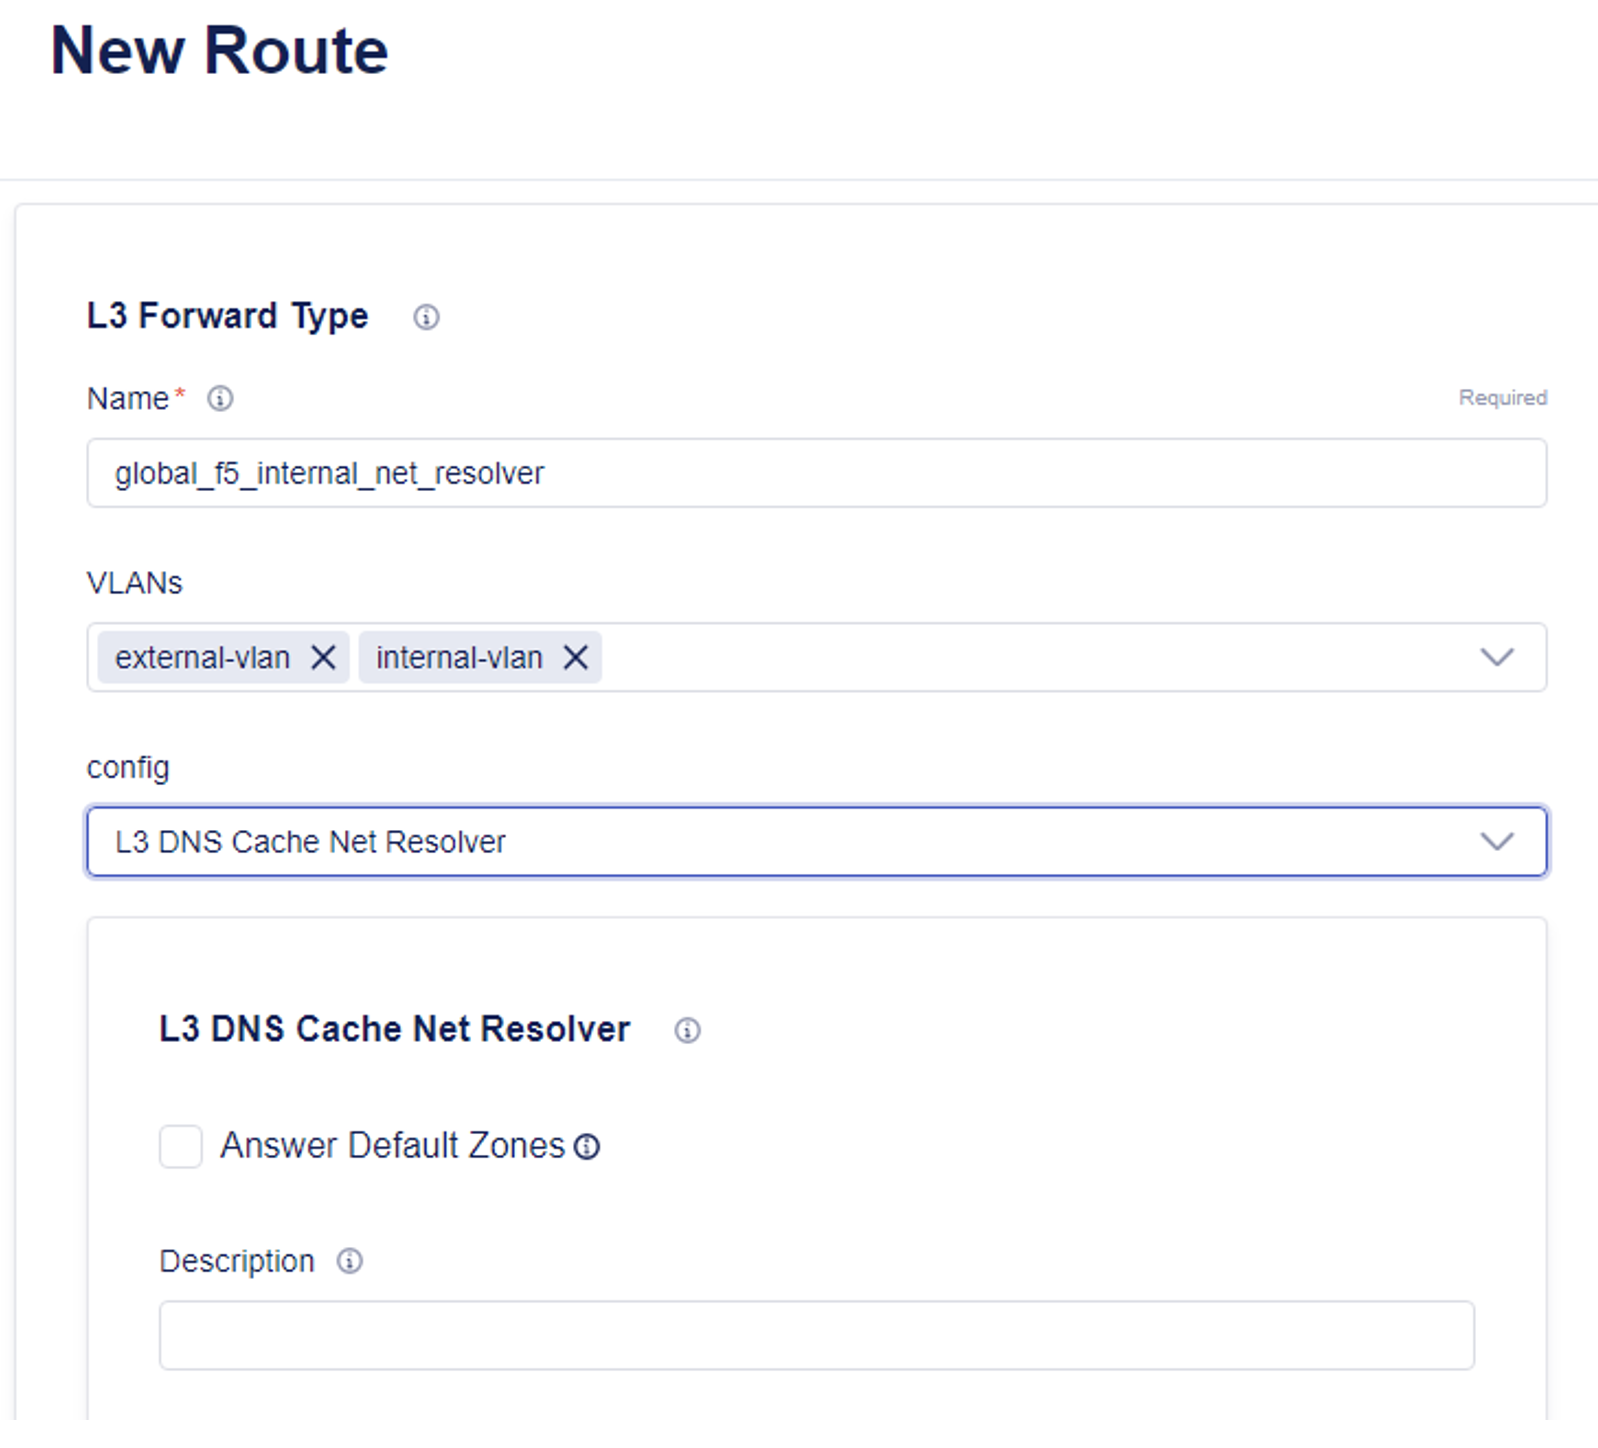
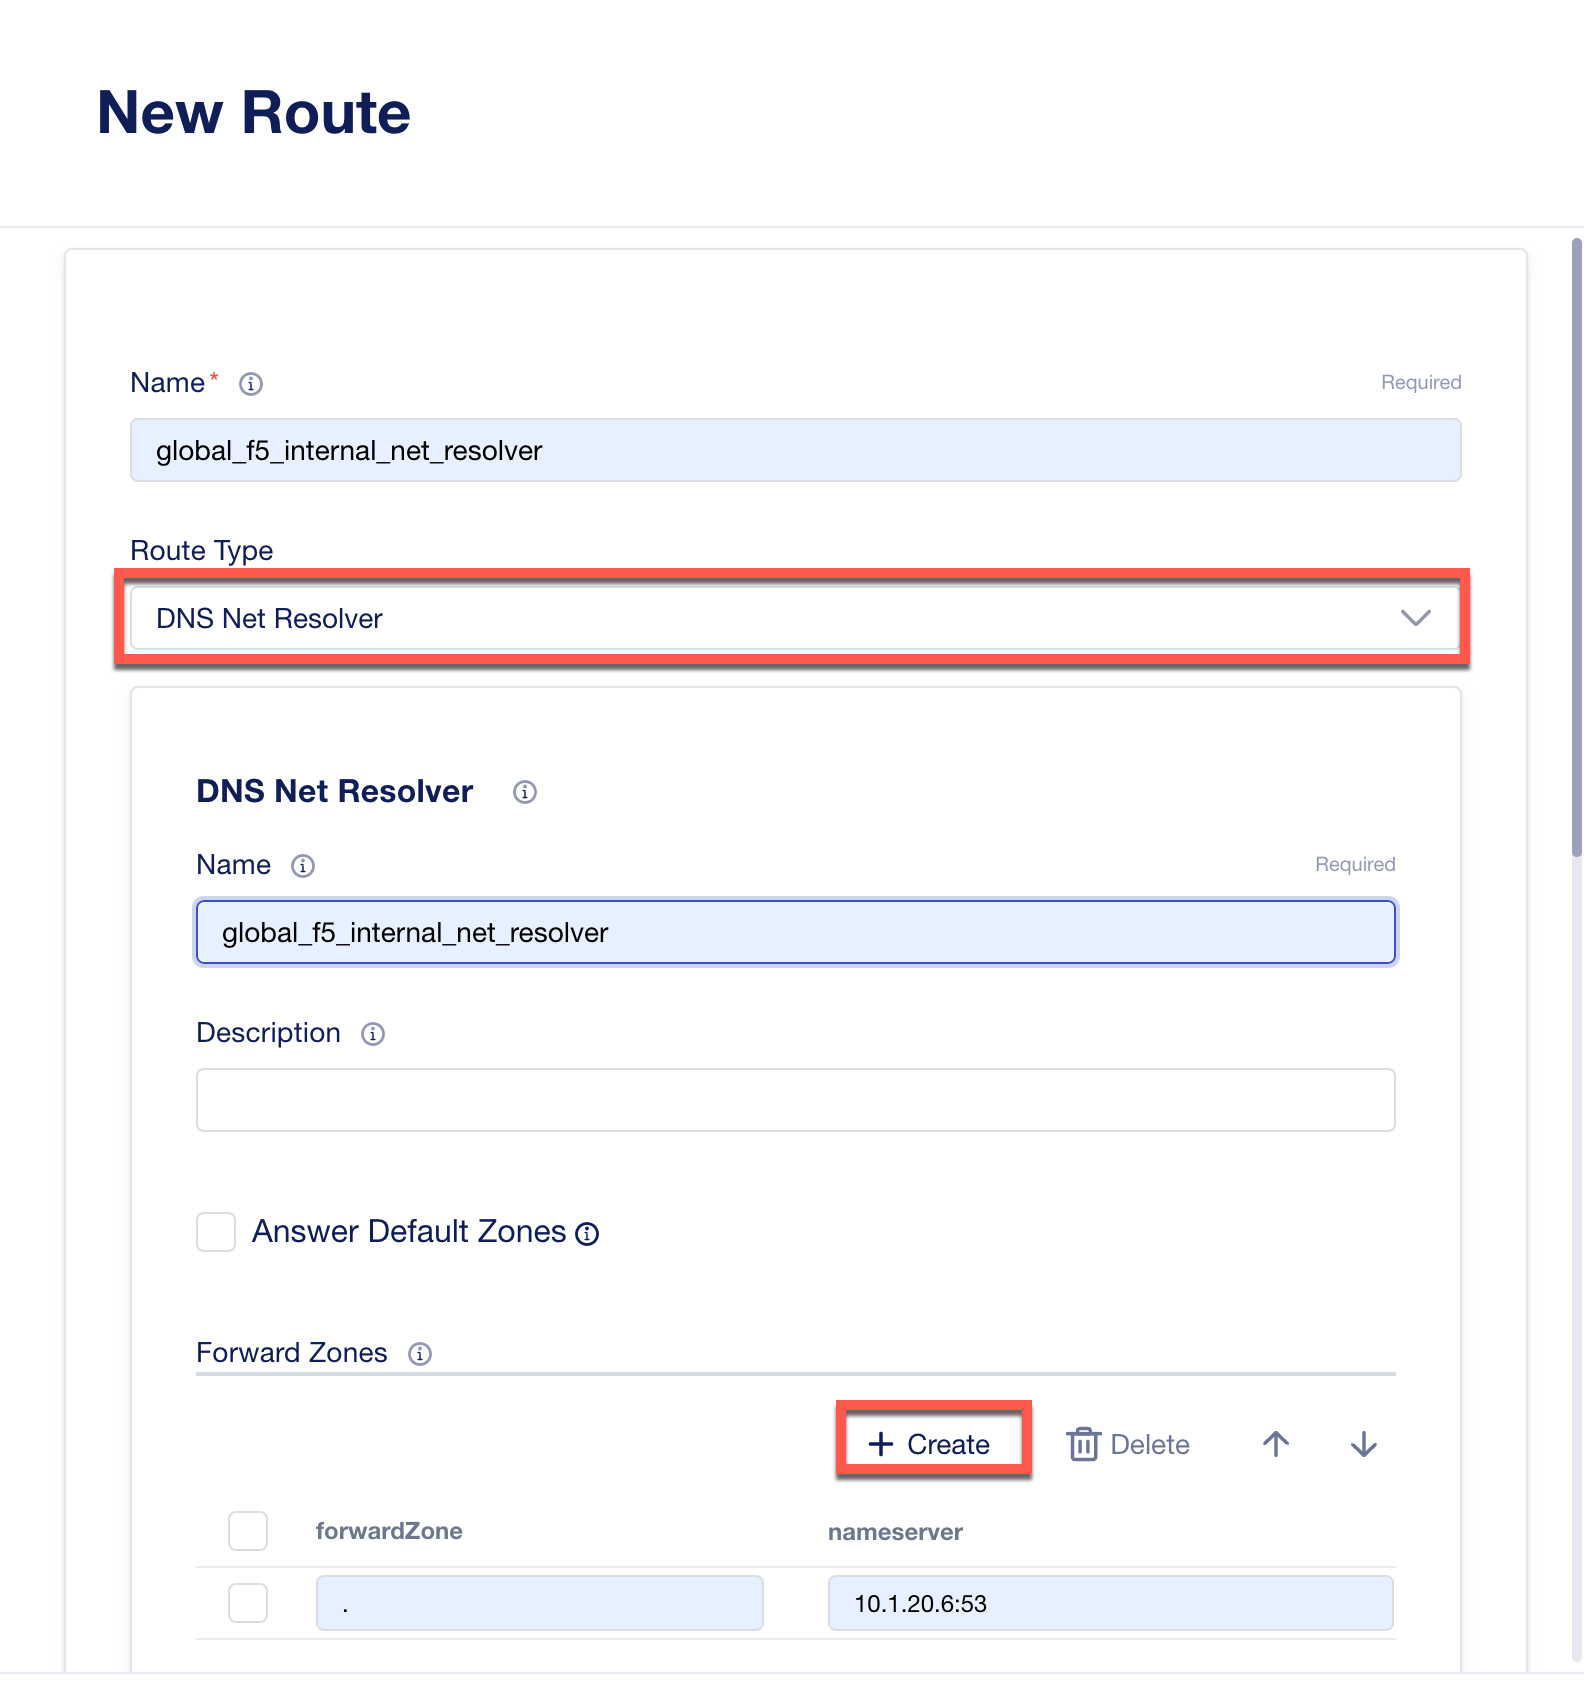
docs:update class1, mod2, lab1 dns resolver steps

diff --git a/docs/class1/module2/lab1.rst b/docs/class1/module2/lab1.rst
@@ -26,32 +26,24 @@ Configuring a L3 DNS Resolver
 
 5. Click on **Start Adding Routes**
 
-6. We will add a new **L3 Forward Type** DNS resolver. In the New Route screen, please enter the following parameters.
+6. We will add a new **DNS Net Resolver** DNS resolver. In the New Route screen, please enter the following parameters and click **Create** to enter the **Forward Zone** details.
+
+.. note:: This DNS resolver is now associated to the VLANS defined within the default virtual routing and forwarding network.
 
 - **Name:** global_f5_internal_net_resolver 
-- **VLANs:** external-vlan, internal-vlan
-- **Config:** L3 DNS Cache Net Resolver
+- **Forward zone:** .  This is a period or single dot
+- **Nameserver:** 10.1.20.6:53
 
 .. image:: images/lab2-l3fwd.png
     :width: 600 px
 
-7. In the same screen, scroll down to **Forward Zone** in the L3 DNS Cache Net Resolver, and click **Create**. Enter the following parameters.
+7. In the same screen, scroll down towards the bottom and select only: Use IPv4, Use TCP, and Use UDP.  
 
-- **Forward zone:** .  This is a period or single dot
-- **Nameserver:** 10.1.1.6:53
-
-.. image:: images/lab2-dnscache.png
-    :width: 600 px
-
-8. Scroll down to **L3 Forward Type**, set the following parameters.
-
-**L3 Forward Type:** netResolver
-**Name:** global_f5_internal_net_resolver
 **Select:** Use IPv4, Use TCP, Use UDP
 
 .. image:: images/lab2-l3types.png
     :width: 600 px
 
-9. Click **Save**, and then click **Cancel & Exit** to exit out of the Instance Setting screen.
+1. Click **Save**, and then click **Cancel & Exit** to exit out of the Instance Setting screen.
 
 This ends this section of the lab, onto the next. 
